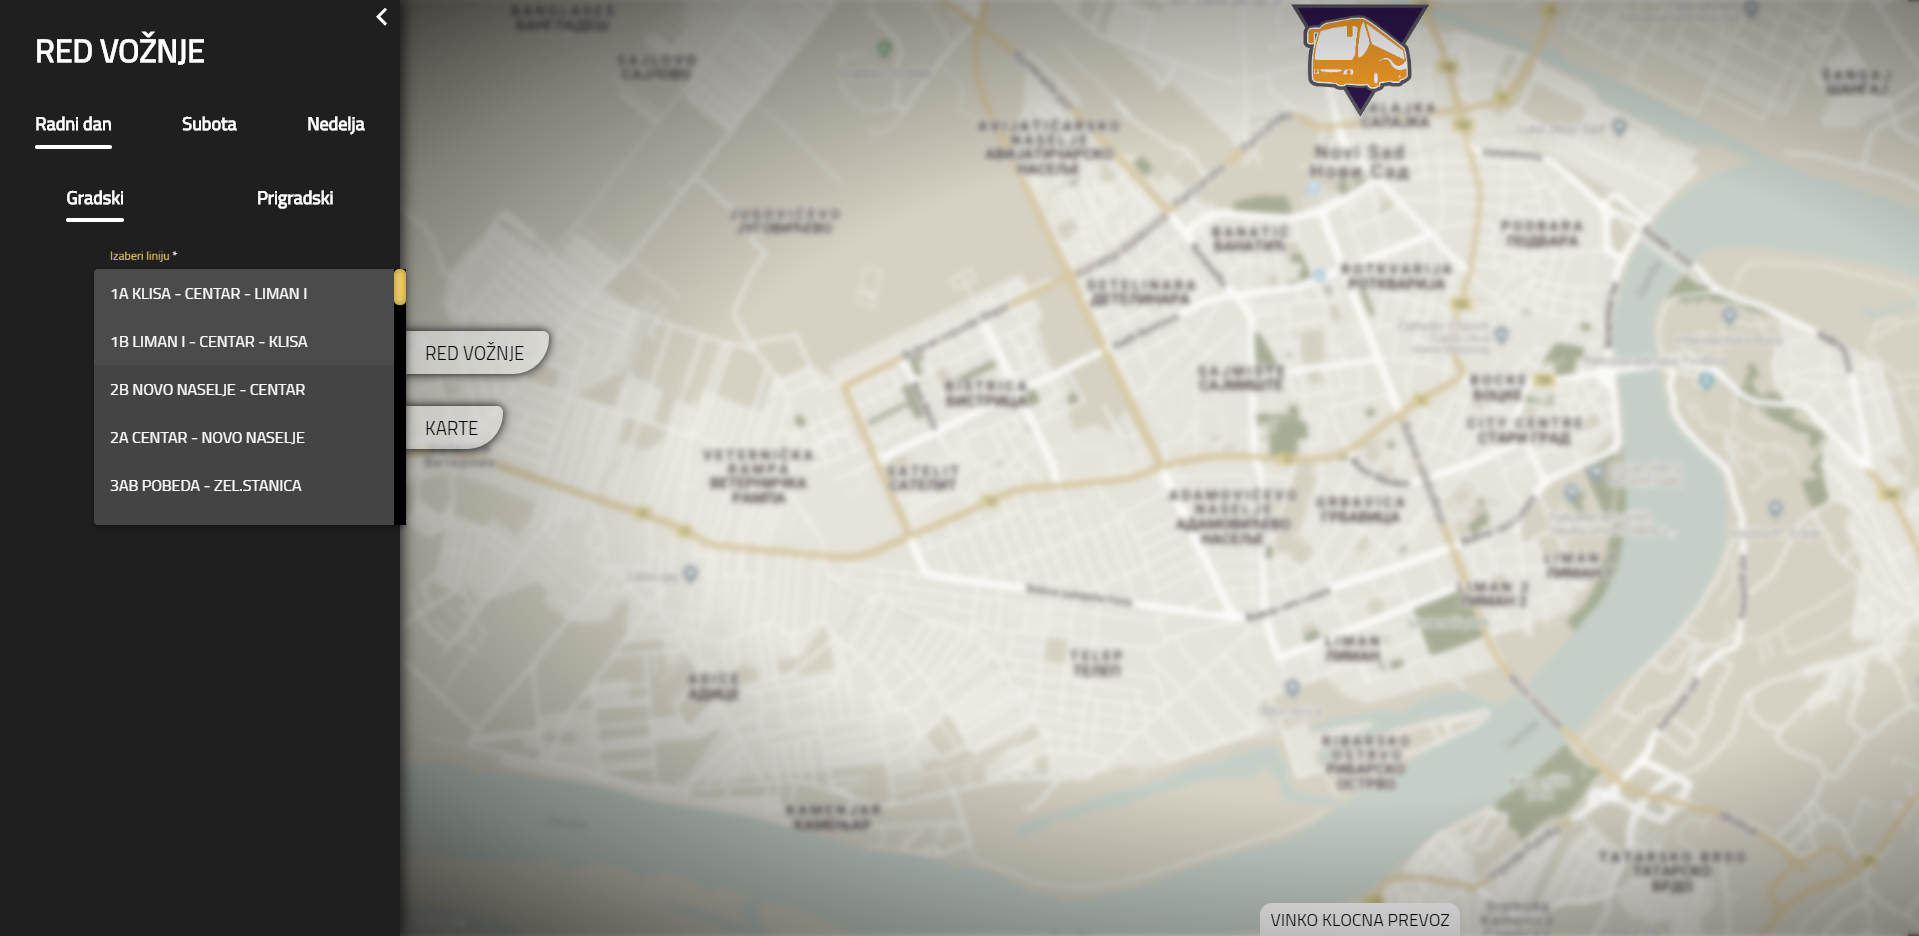
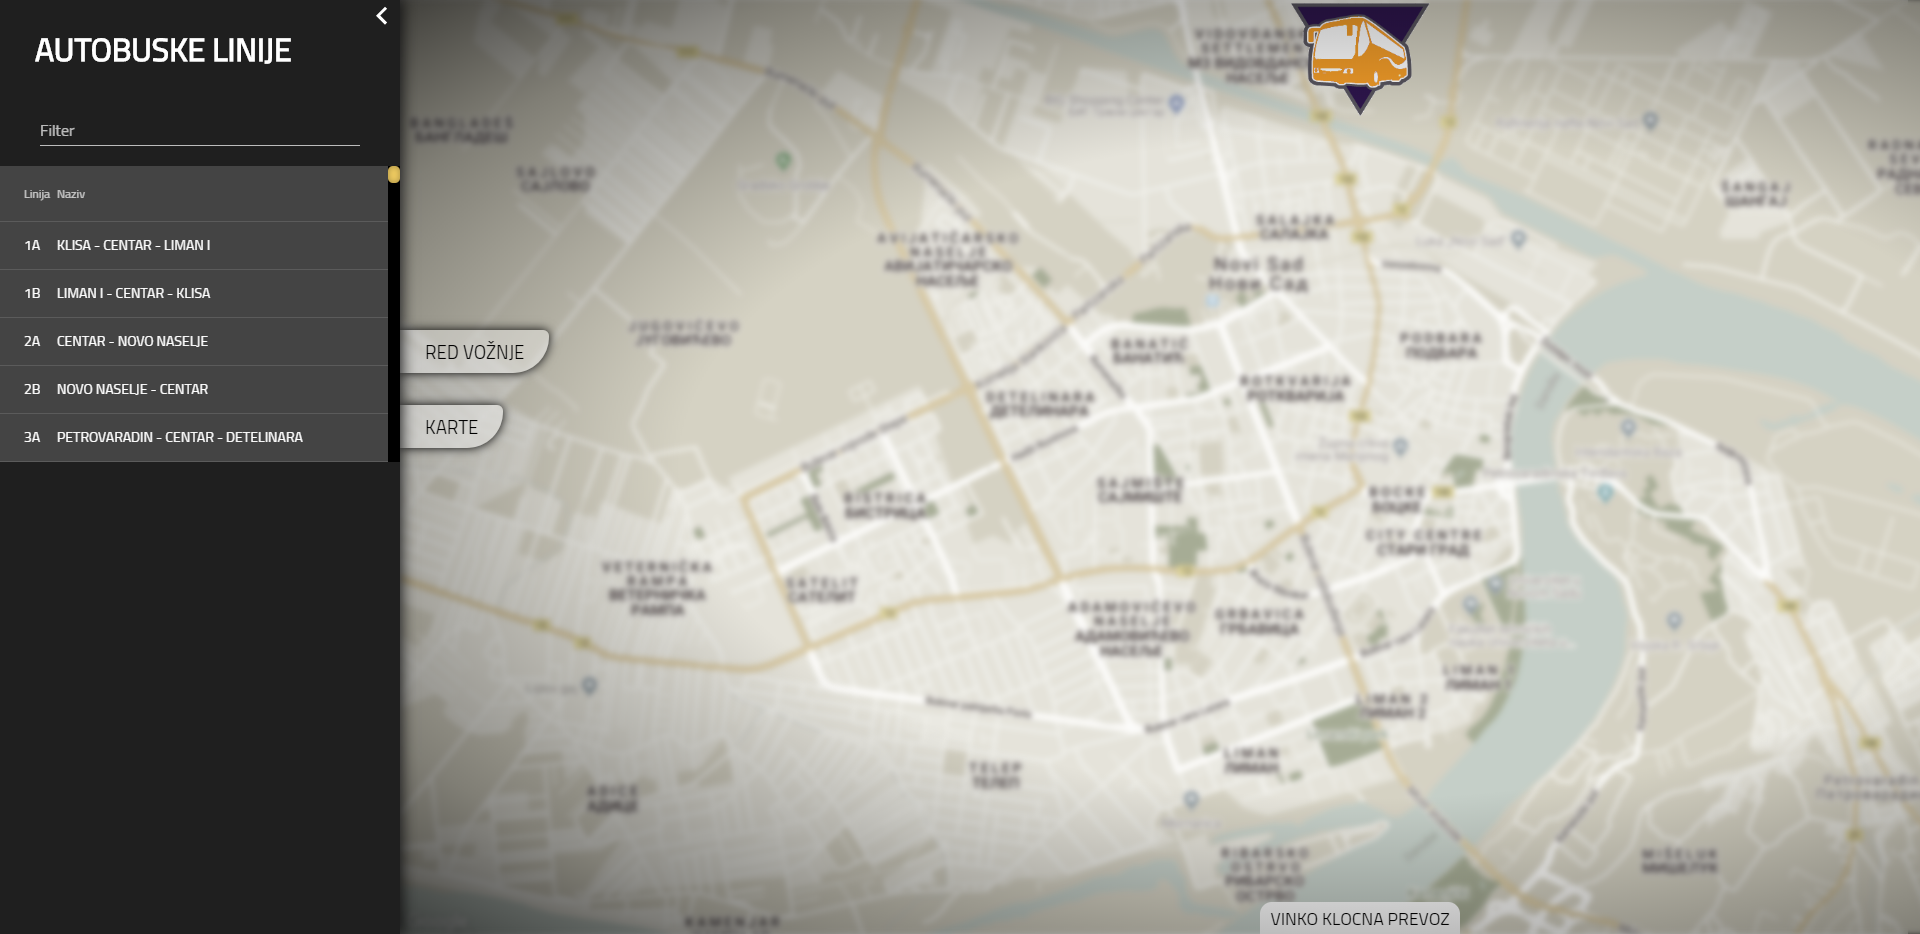
Lepša prezentacija

diff --git a/README.md b/README.md
@@ -1,24 +1,39 @@
 # Sajt autoprevoznika "VINKO KLOCNA PREVOZ"
 
+### Predrag Babić (PR55-2015)
+### Stevan Vulić (PR135-2015)
+
 ## Skrinšotovi sajta
 
-#### Pocetna strana
-![pocetna](https://github.com/djape007/web_2/blob/master/sajt_pocetna.png)
+#### Početna strana
+![a](https://github.com/djape007/web_2/blob/master/sajt_pocetna.png)
 
 #### Odabir linije 
-![pocetna](https://github.com/djape007/web_2/blob/master/sajt_red_voznje.png)
+![a](https://github.com/djape007/web_2/blob/master/sajt_red_voznje.png)
+
+#### Pretraga linija
+![a](https://github.com/djape007/web_2/blob/master/pretraga_linija.gif)
 
 #### Prikaz polazaka za izabranu liniju
-![pocetna](https://github.com/djape007/web_2/blob/master/sajt_red_voznje_prikaz.png)
+![a](https://github.com/djape007/web_2/blob/master/sajt_red_voznje_prikaz.png)
 
-#### Kupovina karata (kao registrovani korisnik koji je ustvari penzioner)
-![pocetna](https://github.com/djape007/web_2/blob/master/sajt_karte_penzos.png)
+#### Kupovina karata (kao registrovani korisnik)
+![a](https://github.com/djape007/web_2/blob/master/sajt_karte_penzos.png)
+
+#### Prikaz kupljenih karata
+![a](https://github.com/djape007/web_2/blob/master/sajt_kupljene_karte.png)
 
 #### Forma registracije
-![pocetna](https://github.com/djape007/web_2/blob/master/sajt_registracija.png)
+![a](https://github.com/djape007/web_2/blob/master/sajt_registracija.png)
 
-#### Pocetna strana sa izabranim linijama (1 i 22) WIP
-![pocetna](https://github.com/djape007/web_2/blob/master/sajt_prikaz_linija.png)
+#### Početna strana sa izabranim linijama
+![a](https://github.com/djape007/web_2/blob/master/sajt_prikaz_linija.png)
 
-### Predrag Babic (PR55-2015)
-### Stevan Vulic (PR135-2015)
+#### Podaci autobusa
+![a](https://github.com/djape007/web_2/blob/master/sajt_podaci_autobusa.png)
+
+#### Podaci stanice (i procena vremena za koliko minuta će stići sledeći autobus)
+![a](https://github.com/djape007/web_2/blob/master/sajt_podaci_stanice.png)
+
+#### Kretanje autobusa (sa zaustavljanjem na stanici)
+![a](https://github.com/djape007/web_2/blob/master/kretanje_autobusa.gif)
